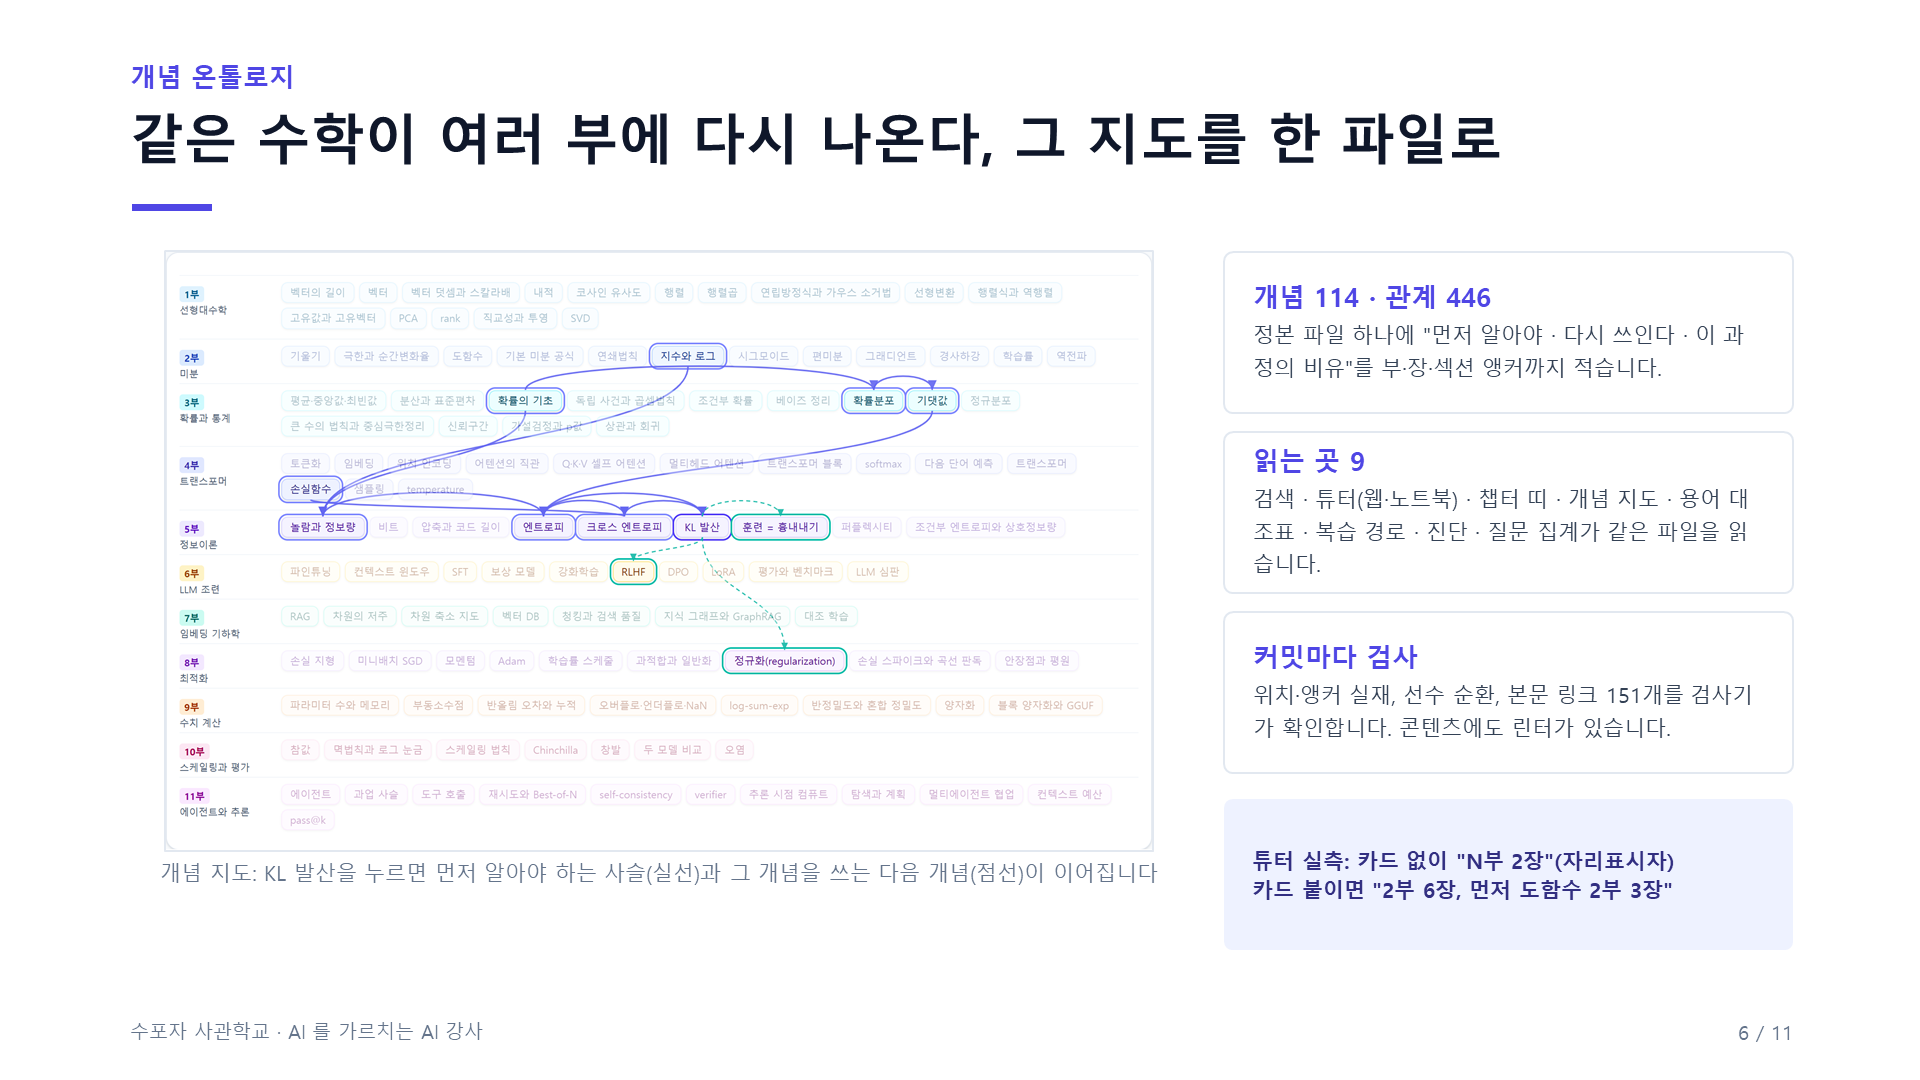
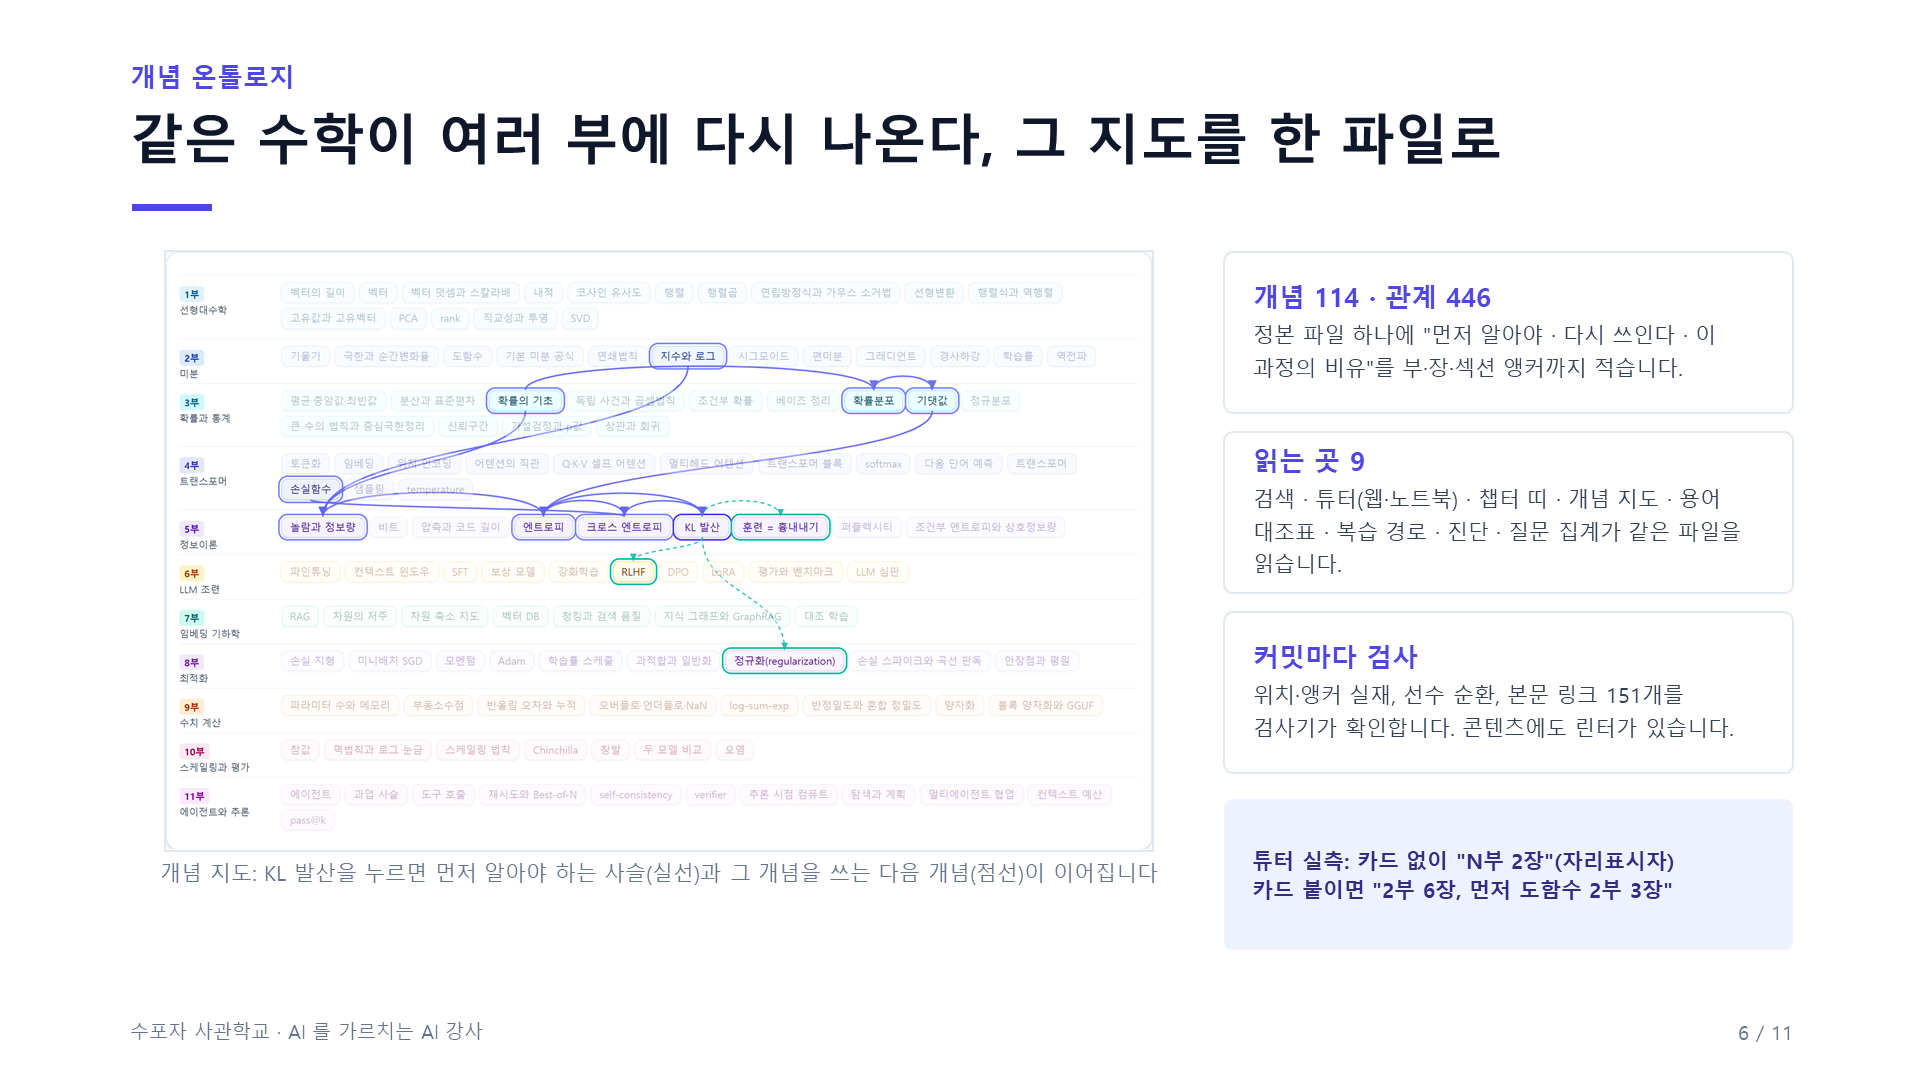
docs(hackathon): 덱 로그인·백엔드 문구 — "기본은 완전 로컬, 로그인은 선택" + 한글 단어 단위 줄바꿈
선택 로그인 백엔드(사내 도메인 계정 · 기기 간 진도·복습·진단 동기화 · 협업 메모 · 도입 현황 대시보드, P0~P3)가
이미 구현돼 있는데 덱은 "로그인 없음", 로드맵 3단계 "계정·서버 진도(백엔드)"로 적고 있었다.
- ⑦ 제목 "기본은 완전 로컬: 서버 0 · 비용 ₩0 · 유출 0", 카드 "튜터 대화는 밖으로 안 나감"(로그인 안 하면 학습 기록도
  브라우저에만), 하단 "선택 로그인: 서버로 가는 건 완료한 챕터·복습 표시·진단 결과·직접 쓴 메모뿐". 발표자 노트에
  사내 도메인 가입·튜터 대화 미전송·Supabase self-host 가능.
- ⑩ "설치 없이 바로 학습(로그인은 선택)"·"사내 계정으로 로그인하면 기기 간 이어짐".
- ⑪ 3단계 "전사 확장: 사내 호스트에 올려 계정으로 운영, 기기 간 동기화·도입 현황 대시보드는 이미 구현".
- 구성안(11_pitch_deck.md)·명세 한계·로드맵(10_spec.md "계정 간 이동 불가"·"백엔드 도입 시")도 같게.
- 덱 생성기: run 에 lang=ko-KR, 단락에 eaLnBrk=0 — PowerPoint 가 한글을 글자 단위로 끊던 것("구 / 현돼", "2 / 점")을
  단어 단위로(둘 다 있어야 효과). 슬라이드 9장 재렌더, 넘침 없음 확인.

diff --git a/docs/hackathon/11_pitch_deck.md b/docs/hackathon/11_pitch_deck.md
@@ -1,5 +1,8 @@
 # 발표 슬라이드 구성안 — 수포자 사관학교 (11_pitch_deck.pptx 의 정본)
 
+> ✅ **로그인·백엔드 문구 (2026-09-30)** — 선택 로그인 백엔드(기기 간 동기화·협업 메모·도입 현황)가 이미 구현돼 있어
+> ⑦ "기본은 완전 로컬"·⑩ "로그인은 선택"·⑪ 3단계 "전사 확장(동기화·대시보드는 이미 구현)"으로 바로잡음.
+> 함께: 덱 생성기가 글자를 한국어(ko-KR)로 지정하고 한글 단어 단위 줄바꿈(eaLnBrk=0)을 켜서, 단어 중간에서 끊기던 줄("구 / 현돼", "2 / 점")이 사라짐.
 > ✅ **슬라이드 ④ 진단 화면 재촬영 (2026-09-30)** — 진단 보기 순서를 바꿔서(정답 위치 분산) 스크린샷·pptx·slide04 를 갱신. 다른 슬라이드는 그대로.
 > ✅ **pptx 재생성 (2026-09-29, 용어 점검 반영)** — 옛 화면 이름(비유어 사전 → 용어 대조표 등)·줄표 문장·"당신"을 정리하고
 > 검증 수치(스모크 160·본문 링크 151)와 튜터 모델 표현("4B" → "경량 로컬 모델")을 고쳤다. 스크린샷 17장·슬라이드 렌더 11장도 새로 찍음.
@@ -50,9 +53,10 @@
   검사기, 아홉 곳이 같은 답 — 형식이 아니라 계약) / "왜 벡터 DB·RAG 로 안 했나?"(129개 장 규모엔 큐레이션 그래프가 더
   정확·결정적·오프라인, 7부 8장이 이 기법 자체를 가르친다)
 
-### ⑦ 완전 로컬 — 서버 0 · 비용 ₩0 · 데이터 유출 0
+### ⑦ 기본은 완전 로컬 — 서버 0 · 비용 ₩0 · 유출 0
 - 비주얼: Wi-Fi OFF 아이콘 + 튜터 답변
-- 3줄: 정적 웹(서버 불필요) / 로컬 LLM 튜터(질문 무제한 ₩0) / 질문 외부 전송 0건
+- 3줄: 정적 웹(학습·진단·튜터는 로그인 없이) / 로컬 LLM 튜터(질문 무제한 ₩0) / 튜터 대화 외부 전송 0건(로그인 안 하면 학습 기록도 브라우저에만)
+- 하단 한 줄: 선택 로그인(사내 이메일 계정) = 기기 간 진도 동기화·협업 메모. 서버로 가는 건 완료 챕터·복습 표시·진단 결과·직접 쓴 메모뿐
 - 시연 밴드: **Wi-Fi 를 끄고 튜터에게 다른 부의 개념을 묻는다** — "KL 발산은 어디서 배워요?" → "5부 5장, 먼저 크로스
   엔트로피(5부 4장)" (개념 그래프의 카드 한 장 ≈ 100토큰, 벡터 DB 없이, 경량 로컬 모델)
 - 덤: 9부가 이 인프라 자체를 가르침 — "7B 모델이 왜 4GB 로 내 PC 에서 도는가"
@@ -70,11 +74,11 @@
 ### ⑩ 도입 — 오늘 바로 시작할 수 있습니다
 - 도입 시나리오: 신입 온보딩 · 전사 AI 리터러시 교육 · 실무 직결 트랙(7부 RAG — 사내 챗봇의
   수학, 9부 — 사내 PC 로컬 모델 선택, 10부 — "새 모델이 2점 높대요" 도입 판단, 11부 — "에이전트에게 일을 맡겨도 되나" 판단)
-- 온보딩 마찰 0: URL/QR 로 즉시 접속, 로그인 없음, 진도 자동 저장, **개념 지도·용어 대조표로 실무 용어까지**
+- 온보딩 마찰 0: URL/QR 로 즉시 접속, 설치 없이 바로 학습(로그인은 선택), 진도 자동 저장, 사내 계정으로 로그인하면 기기 간 이어짐, **개념 지도·용어 대조표로 실무 용어까지**
 - QR 코드 (배포 URL) <!-- TODO: 호스트 확정 후 -->
 
 ### ⑪ 로드맵 + 클로징
-- 파일럿(동료 5~10명, 완주율·이탈 지점) → 도입 지점 확정 → 계정·서버 진도(백엔드)
+- 파일럿(동료 5~10명, 완주율·이탈 지점) → 도입 지점 확정 → 전사 확장(사내 호스트 배포·계정 운영. 기기 간 진도 동기화·도입 현황 대시보드는 이미 구현)
 - 콘텐츠 확장: 10부(스케일링 법칙과 평가의 통계)·11부(에이전트와 추론의 수학) 완결·편입 — 다음 후보는 확산 모델의 수학(조건부)
 - 클로징 카피: "전 직원의 AI 리터러시 — **비용 0원으로, 오늘부터.**"
 
@@ -84,8 +88,8 @@
   장면(15초)으로 대체 가능.
 - 임원 청중 대비: 수식·코드 화면 금지, "내 문장·내 진단"의 1인칭 경험 강조.
 - 예비 Q&A 카드: "정확도는?"(가드레일·본문 우선 고지·페르소나 검수) / "유지보수는?"(모노레포
-  공용 패키지 — 한 번 고치면 전 부 반영, 개념 정본도 한 파일 — 고치면 아홉 곳이 따라옴) / "확장은?"(백엔드 없이 시작, 필요 시
-  계정·서버 진도) / "온톨로지가 뭔가요?"(개념과 관계를 기계가 읽게 적은 한 파일 — 튜터가 다른 부 개념을 안내하고, 지도·사전·
+  공용 패키지 — 한 번 고치면 전 부 반영, 개념 정본도 한 파일 — 고치면 아홉 곳이 따라옴) / "확장은?"(백엔드 없이 시작해도 되고,
+  사내 계정 로그인·기기 간 진도·도입 현황 대시보드는 이미 구현돼 켜기만 하면 된다) / "온톨로지가 뭔가요?"(개념과 관계를 기계가 읽게 적은 한 파일 — 튜터가 다른 부 개념을 안내하고, 지도·사전·
   복습 경로가 거기서 나온다. 추론기·서버는 일부러 뺐다)
 
 > 연계: 명세 [`10_spec.md`](10_spec.md) · 지표 [`12_metrics.md`](12_metrics.md) · 시연 대본 [`13_demo_script.md`](13_demo_script.md) ·

diff --git a/docs/99_history.md b/docs/99_history.md
@@ -17,6 +17,15 @@
 - 같이 찾은 것: `docs/TESTING.md` 부별 빌드 반복문(cmd·PowerShell)에 10·11부가 빠져 있었다 → 추가.
 - 검증: check:ontology(exit 0)·check:mermaid 통과, 워크플로 YAML 파싱 확인(단계 8개).
 
+### 🎤 덱 로그인·백엔드 문구 — "기본은 완전 로컬, 로그인은 선택"
+- 선택 로그인 백엔드(사내 도메인 계정 · 기기 간 진도·복습·진단 동기화 · 협업 메모 · 도입 현황 대시보드, P0~P3)가 이미 구현돼 있는데
+  덱은 "로그인 없음", 로드맵 3단계 "계정·서버 진도(백엔드)"로 적고 있었다.
+- ⑦ 제목 "기본은 완전 로컬: 서버 0 · 비용 ₩0 · 유출 0", 카드 "튜터 대화는 밖으로 안 나감"(로그인 안 하면 학습 기록도 브라우저에만),
+  하단 한 줄 "선택 로그인: 서버로 가는 건 완료한 챕터·복습 표시·진단 결과·직접 쓴 메모뿐". 발표자 노트에 self-host 가능 등 Q&A 대비.
+- ⑩ "설치 없이 바로 학습(로그인은 선택)"·"사내 계정으로 로그인하면 기기 간 이어짐", ⑪ 3단계 "전사 확장: 사내 호스트·계정 운영, 동기화·대시보드는 이미 구현".
+- 구성안(11_pitch_deck.md)과 명세 한계·로드맵(10_spec.md "계정 간 이동 불가"·"백엔드 도입 시")도 같게.
+- 덱 생성기: 글자 언어 ko-KR + 한글 단어 단위 줄바꿈(eaLnBrk=0) — 단어 중간에서 끊기던 줄 해소(슬라이드 9장 재렌더, 넘침 없음 확인).
+
 ### 🎤 덱 ④·영상 진단 장면 재촬영
 - 9/28 점검 #5 로 진단 보기 순서가 바뀌어 덱 4장 스크린샷과 영상 진단 장면에 옛 순서가 찍혀 있었다 → `diagnose.png`·pptx·`slides/slide04.png`·`demo_3min.mp4`·`.srt` 재생성.
 - 다시 찍은 스크린샷 중 렌더링 잡음(토큰화 카드, 눈에 보이는 차이 0픽셀)과 매번 달라지는 튜터 답변 캡처(덱 미사용)는 커밋본으로 되돌림. 슬라이드 렌더는 4장만 바뀜.

diff --git a/docs/hackathon/10_spec.md b/docs/hackathon/10_spec.md
@@ -170,9 +170,9 @@ ollama pull gemma4:e2b       # AI 튜터 (선택)
 ## 8. 한계와 로드맵
 
 - **한계**: 로컬 경량 모델 특성상 튜터 답변이 가끔 부정확할 수 있음("본문 설명이 우선!" 상시
-  고지 + 챕터 맥락 보정). 진도는 localStorage(기기 단위) — 계정 간 이동 불가.
+  고지 + 챕터 맥락 보정). 로그인하지 않으면 진도는 브라우저(localStorage)에만 남는다 — 기기 간 이동은 사내 계정으로 로그인했을 때(선택).
 - **로드맵**: ① 사내 파일럿(동료 5~10명 완주율·이탈 지점 수집) → 도입 지점 확정(온보딩·AI 교육)
-  ② 백엔드 도입 시 계정·서버 진도(스토어가 교체 가능하게 설계돼 있음)
+  ② 사내 호스트 배포와 계정 운영 — 선택 로그인 백엔드(기기 간 진도·복습·진단 동기화, 협업 메모, 도입 현황 대시보드)는 구현 완료, 기본값은 백엔드 없이 로컬
   ③ 콘텐츠 확장 — 스케일링 법칙과 평가의 통계는 **10부**, 에이전트와 추론의 수학은 **11부로 완결(2026-07-13)**, 다음 후보는 확산 모델의 수학(조건부).
 
 ---
